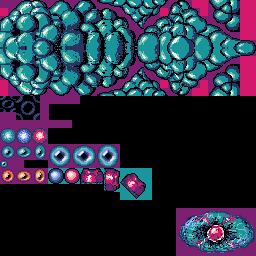
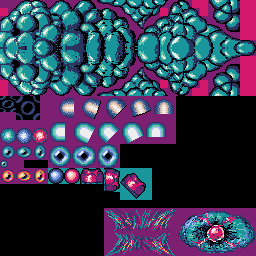
２面ボス出現まで

Changed region(s): [[0.1875, 0.375, 0.6875, 0.5625], [0.4062, 0.8125, 0.6875, 1.0]]

diff --git a/enemy.py b/enemy.py
@@ -803,7 +803,8 @@ class Cell2(EnemyBase):
 		self.x += self.dx
 		self.y += self.dy
 		if self.dr == 0:
-			if self.x <= -24 or self.x > SCREEN_MAX_X:
+			if self.x <= -24 or self.x > gcommon.SCREEN_MAX_X+1:
+				print("Cell2 remove " + str(self.x) + " " + str(self.y))
 				self.remove()
 			else:
 				if self.dy < 0:
@@ -825,6 +826,8 @@ class Cell2(EnemyBase):
 		pyxel.blt(self.x, self.y, 1, 48 + n* 24, 144, 24, 24, gcommon.TP_COLOR)
 
 
+#
+# 土台付触手
 class Worm1(EnemyBase):
 	def __init__(self, t):
 		super(Worm1, self).__init__()
@@ -866,6 +869,10 @@ class Worm1(EnemyBase):
 			self.offsetY = 4
 		elif self.baseDr ==6:
 			self.dr = 16
+		elif self.baseDr ==7:
+			self.dr = 8
+			self.offsetX = 8
+			self.offsetY = 8
 		else:
 			pass
 		self.subDr = 0
@@ -876,6 +883,9 @@ class Worm1(EnemyBase):
 		self.cellRect = gcommon.Rect.create(2,2,13,13)
 
 	def update(self):
+		if self.state != 0 and self.x < -32 or self.y > 250:
+			self.remove()
+			return
 		if self.state == 0:
 			# 待機状態
 			#if gcommon.get_distance_my(self.x + 12, self.y) < 100:
@@ -962,6 +972,8 @@ class Worm1(EnemyBase):
 			pyxel.blt(self.x, self.y, 1, 104, 168, -16, 24, 3)
 		elif self.baseDr == 6:
 			pyxel.blt(self.x, self.y, 1, 80, 168, 24, -16, 3)
+		elif self.baseDr == 7:
+			pyxel.blt(self.x, self.y, 1, 120, 168, 32, -32, 3)
 
 	# 自機弾と敵との当たり判定と破壊処理
 	def checkShotCollision(self, shot):
@@ -1006,3 +1018,95 @@ class Worm1(EnemyBase):
 		gcommon.score += self.score
 		self.state = 100
 		self.cnt = 0
+
+
+class Worm2Cell:
+	def __init__(self, offsetX, offsetY, dr, cnt):
+		self.offsetX = offsetX
+		self.offsetY = offsetY
+		self.dr = dr
+		self.cnt = cnt
+
+
+class Worm2(EnemyBase):
+	def __init__(self, t):
+		super(Worm2, self).__init__()
+		self.x = t[2]
+		self.y = t[3]
+		self.dr = t[4]
+		self.tbl = t[5]
+		self.left = 2
+		self.top = 2
+		self.right = 21
+		self.bottom = 21
+		self.hp = 600
+		#self.layer = gcommon.C_LAYER_UNDER_GRD
+		self.layer = gcommon.C_LAYER_GRD
+		self.score = 100
+		self.tblIndex = 0
+		self.subcnt = self.tbl[self.tblIndex][0]
+
+	def update(self):
+		self.x += gcommon.cos_table[int(self.dr) & 63]
+		self.y += gcommon.sin_table[int(self.dr) & 63]
+		if self.x < -24 or self.y < -24 or self.y > gcommon.SCREEN_MAX_Y:
+			self.remove()
+		else:
+			if self.tblIndex < len(self.tbl):
+				self.dr += self.tbl[self.tblIndex][1]
+				self.subcnt -=1
+				if self.subcnt <= 0:
+					self.tblIndex += 1
+					if self.tblIndex < len(self.tbl):
+						self.subcnt =  self.tbl[self.tblIndex][0]
+	
+	def draw(self):
+		n = int(self.cnt/11) %3
+		pyxel.blt(self.x, self.y, 1, 48, 144, 24, 24, gcommon.TP_COLOR)
+
+
+worm2Tbl1 = [
+	[74, 0],
+	[32, -0.5],
+]
+
+worm2Tbl2 = [
+	[74, 0],
+	[32, 0.5],
+]
+
+worm2Tbl3 = [
+	[49, 0],
+	[32, -0.5],
+	[128, 0.25],
+]
+
+worm2Tbl4 = [
+	[50, 0],
+	[32, 0.5],
+	[128, -0.25],
+	[50, 0],
+]
+
+class Worm2Group(EnemyBase):
+	def __init__(self, t):
+		super(Worm2Group, self).__init__()
+		self.x = t[2]
+		self.y = t[3]
+		self.dr = t[4]
+		self.cellCount = t[5]
+		self.tbl = t[6]
+		self.layer = gcommon.C_LAYER_GRD
+		self.hitCheck = False
+		self.shotHitCheck = False
+
+	def update(self):
+		if self.cnt % 15 == 0:
+			gcommon.ObjMgr.addObj(Worm2([0, 0, self.x, self.y, self.dr, self.tbl]))
+			self.cellCount -= 1
+			if self.cellCount == 0:
+				self.remove()
+
+	def draw(self):
+		pass
+

diff --git a/boss.py b/boss.py
@@ -205,6 +205,35 @@ class Boss1Beam(enemy.EnemyBase):
 	def draw(self):
 		pass
 
+# ボス２固定台
+class Boss2Base(enemy.EnemyBase):
+	def __init__(self, bossObj, pos):
+		super(Boss2Base, self).__init__()
+		self.bossObj = bossObj
+		self.left = 16
+		self.top = 4
+		self.right = 61
+		self.bottom = 17
+		self.layer = gcommon.C_LAYER_UPPER_GRD
+		self.hp = 0
+		self.hitcolor1 = 3
+		self.hitcolor2 = 10
+		self.pos = pos
+		if pos ==0:
+			# 上側
+			self.x = self.bossObj.x +4
+			self.y = self.bossObj.y -16
+		else:
+			# 下側
+			self.x = self.bossObj.x +4
+			self.y = self.bossObj.y +40
+
+	def update(self):
+		pass
+
+	def draw(self):
+		pyxel.blt(self.x, self.y, 1, 104, 208 + self.pos*24, 72, 24, gcommon.TP_COLOR)
+		
 
 # 0:mode
 #   0: 停止
@@ -321,27 +350,28 @@ class Feeler(enemy.EnemyBase):
 		i = 0
 		while(i<size):
 			pos = self.cells[size -1 -i]
-			pyxel.blt(self.x + pos[0], self.y + pos[1], 1, 0, 80, 16, 16, gcommon.TP_COLOR)
+			pyxel.blt(self.x + pos[0], self.y + pos[1], 1, 0, 128, 16, 16, gcommon.TP_COLOR)
 			i += 1
 
 class Boss2(enemy.EnemyBase):
 	def __init__(self, t):
 		super(Boss2, self).__init__()
 		self.t = gcommon.T_BOSS1
-		self.x = t[2]
-		self.y = t[3]
-		self.left = 0
-		self.top = 0
-		self.right = 71
-		self.bottom = 67
+		pos = gcommon.mapPosToScreenPos(t[2], t[3])
+		self.x = pos[0]
+		self.y = pos[1]
+		self.left = 16
+		self.top = 9
+		self.right = 63
+		self.bottom = 38
 		self.hp = 32000
-		self.layer = gcommon.C_LAYER_SKY
+		self.layer = gcommon.C_LAYER_GRD
 		self.score = 5000
 		self.subcnt = 0
 		self.dx = -0.5
 		self.dy = 0
 		self.hitcolor1 = 3
-		self.hitcolor2 = 14
+		self.hitcolor2 = 7
 		self.tblIndex = 0
 		self.brake = False
 		self.feelers = []
@@ -349,17 +379,20 @@ class Boss2(enemy.EnemyBase):
 		self.feelers.append(Feeler(self, 16, 29, 24, 6))
 		self.feelers.append(Feeler(self, 16, 8, 40, 6))
 		self.feelers.append(Feeler(self, 50, 8, 56, 6))
-		self.feelers[0].setMode(1)
-		self.feelers[1].setMode(1)
-		self.feelers[2].setMode(1)
-		self.feelers[3].setMode(1)
-		gcommon.ObjMgr.addObj(self.feelers[0])
-		gcommon.ObjMgr.addObj(self.feelers[1])
-		gcommon.ObjMgr.addObj(self.feelers[2])
-		gcommon.ObjMgr.addObj(self.feelers[3])
+		#self.feelers[0].setMode(1)
+		#self.feelers[1].setMode(1)
+		#self.feelers[2].setMode(1)
+		#self.feelers[3].setMode(1)
+		#gcommon.ObjMgr.addObj(self.feelers[0])
+		#gcommon.ObjMgr.addObj(self.feelers[1])
+		#gcommon.ObjMgr.addObj(self.feelers[2])
+		#gcommon.ObjMgr.addObj(self.feelers[3])
+		
+		gcommon.ObjMgr.addObj(Boss2Base(self,0))
+		gcommon.ObjMgr.addObj(Boss2Base(self,1))
 
 	def update(self):
-		if self.state == 0:
+		if self.state == 1:
 			self.x += self.dx
 			self.y += self.dy
 			self.brake = False
@@ -453,7 +486,7 @@ class Boss2(enemy.EnemyBase):
 			self.subcnt+=1
 
 	def draw(self):
-		pyxel.blt(self.x, self.y, 1, 168, 144, 80, 48, gcommon.TP_COLOR)
+		pyxel.blt(self.x, self.y, 1, 176, 208, 80, 48, gcommon.TP_COLOR)
 		
 
 	def nextTbl(self):

diff --git a/graslay.py b/graslay.py
@@ -751,6 +751,7 @@ class MainGame:
 			
 		
 		pyxel.text(120, 188, str(gcommon.game_timer), 7)
+		pyxel.text(200, 188, str(len(gcommon.ObjMgr.objs)), 7)
 		#pyxel.text(120, 194, str(gcommon.getMapData(gcommon.ObjMgr.myShip.x, gcommon.ObjMgr.myShip.y)), 7)
 		# マップ位置表示
 		#pyxel.text(0, 192, str(gcommon.map_x), 7)
@@ -1002,11 +1003,45 @@ class MainGame:
 			[4640, enemy.Cell2, 256, 70, -0.5, 1, 0],		\
 			[4660, enemy.Cell2, 256, 40, -0.5, 1, 0],		\
 			[4680, enemy.Cell2, 256, 30, -0.5, 1, 0],		\
+
+			# 斜面に上からへばり付いてるやつ
+			[4800, enemy.Worm1, 144, 15, 7, 5, 160],		\
+
+			[5300, enemy.Worm1, 175, 28, 2, 5, 160],		\
+
+			[5300, enemy.Worm2Group, 330, 30, 32, 10, enemy.worm2Tbl1],		\
+
+			[5310, enemy.Cell1Group1, 256, 10, 0],		\
+			[5360, enemy.Cell1Group1, 256, 60, 0],		\
+
+			[5400, enemy.Worm1, 180, 9, 6, 5, 160],		\
+			[5700, enemy.Worm2Group, 200, -24, 16, 10, enemy.worm2Tbl2],		\
+
+
+			[5700, enemy.Worm1, 195, 26, 2, 5, 160],		\
+
+			[5710, enemy.Cell1Group1, 256, 30, 0],		\
+			[5760, enemy.Cell1Group1, 256, 100, 0],		\
+
+			[5800, enemy.Worm2Group, 176, -24, 16, 10, enemy.worm2Tbl3],		\
+			
+			[5800, enemy.Worm1, 207, 9, 6, 5, 160],		\
+			
+			[5810, enemy.Cell1Group1, 256, 30, 0],		\
+			[5860, enemy.Cell1Group1, 256, 100, 0],		\
+
+			[6000, enemy.Worm2Group, 176, 192, 48, 10, enemy.worm2Tbl4],		\
+
+			[6000, enemy.Worm1, 230, 8, 6, 5, 160],		\
+			[6000, enemy.Worm1, 228, 25, 2, 5, 160],		\
+
+			[6400, boss.Boss2, 241, 16],		\
 		]
 
 	def initStory3(self):
 		self.story=[ \
 		]
+
 
 def parseCommandLine():
 	idx = 0
